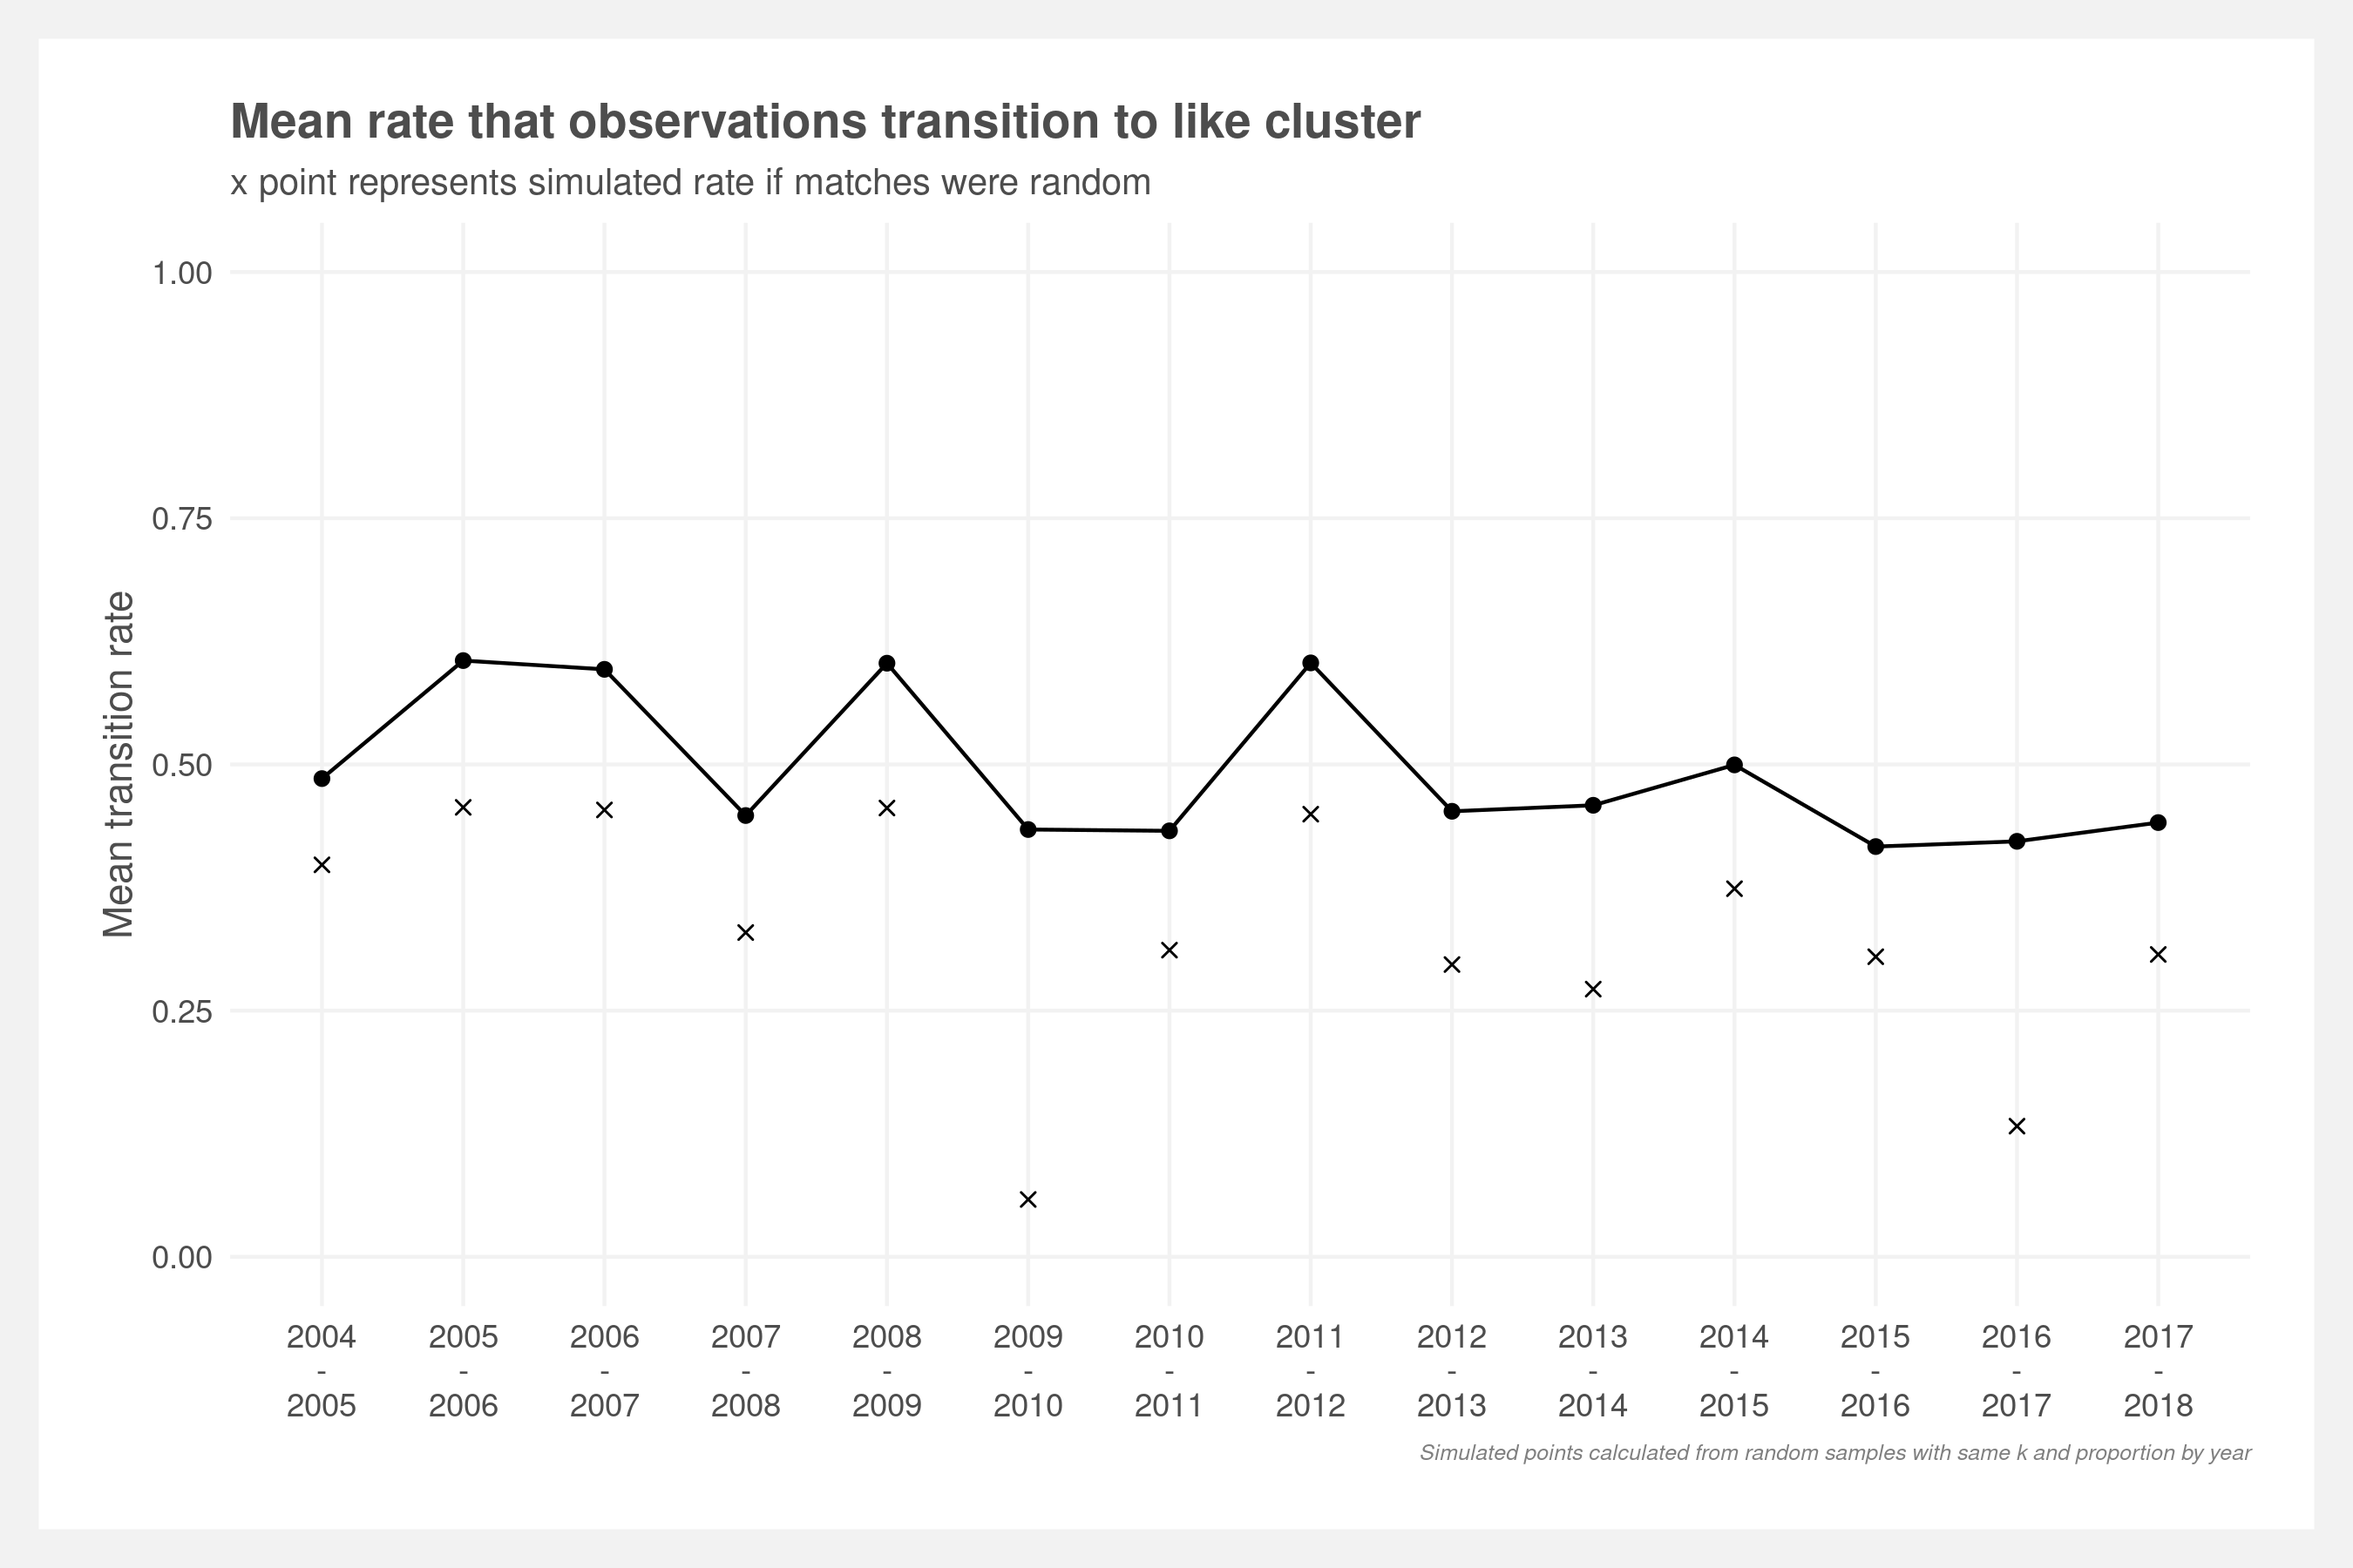
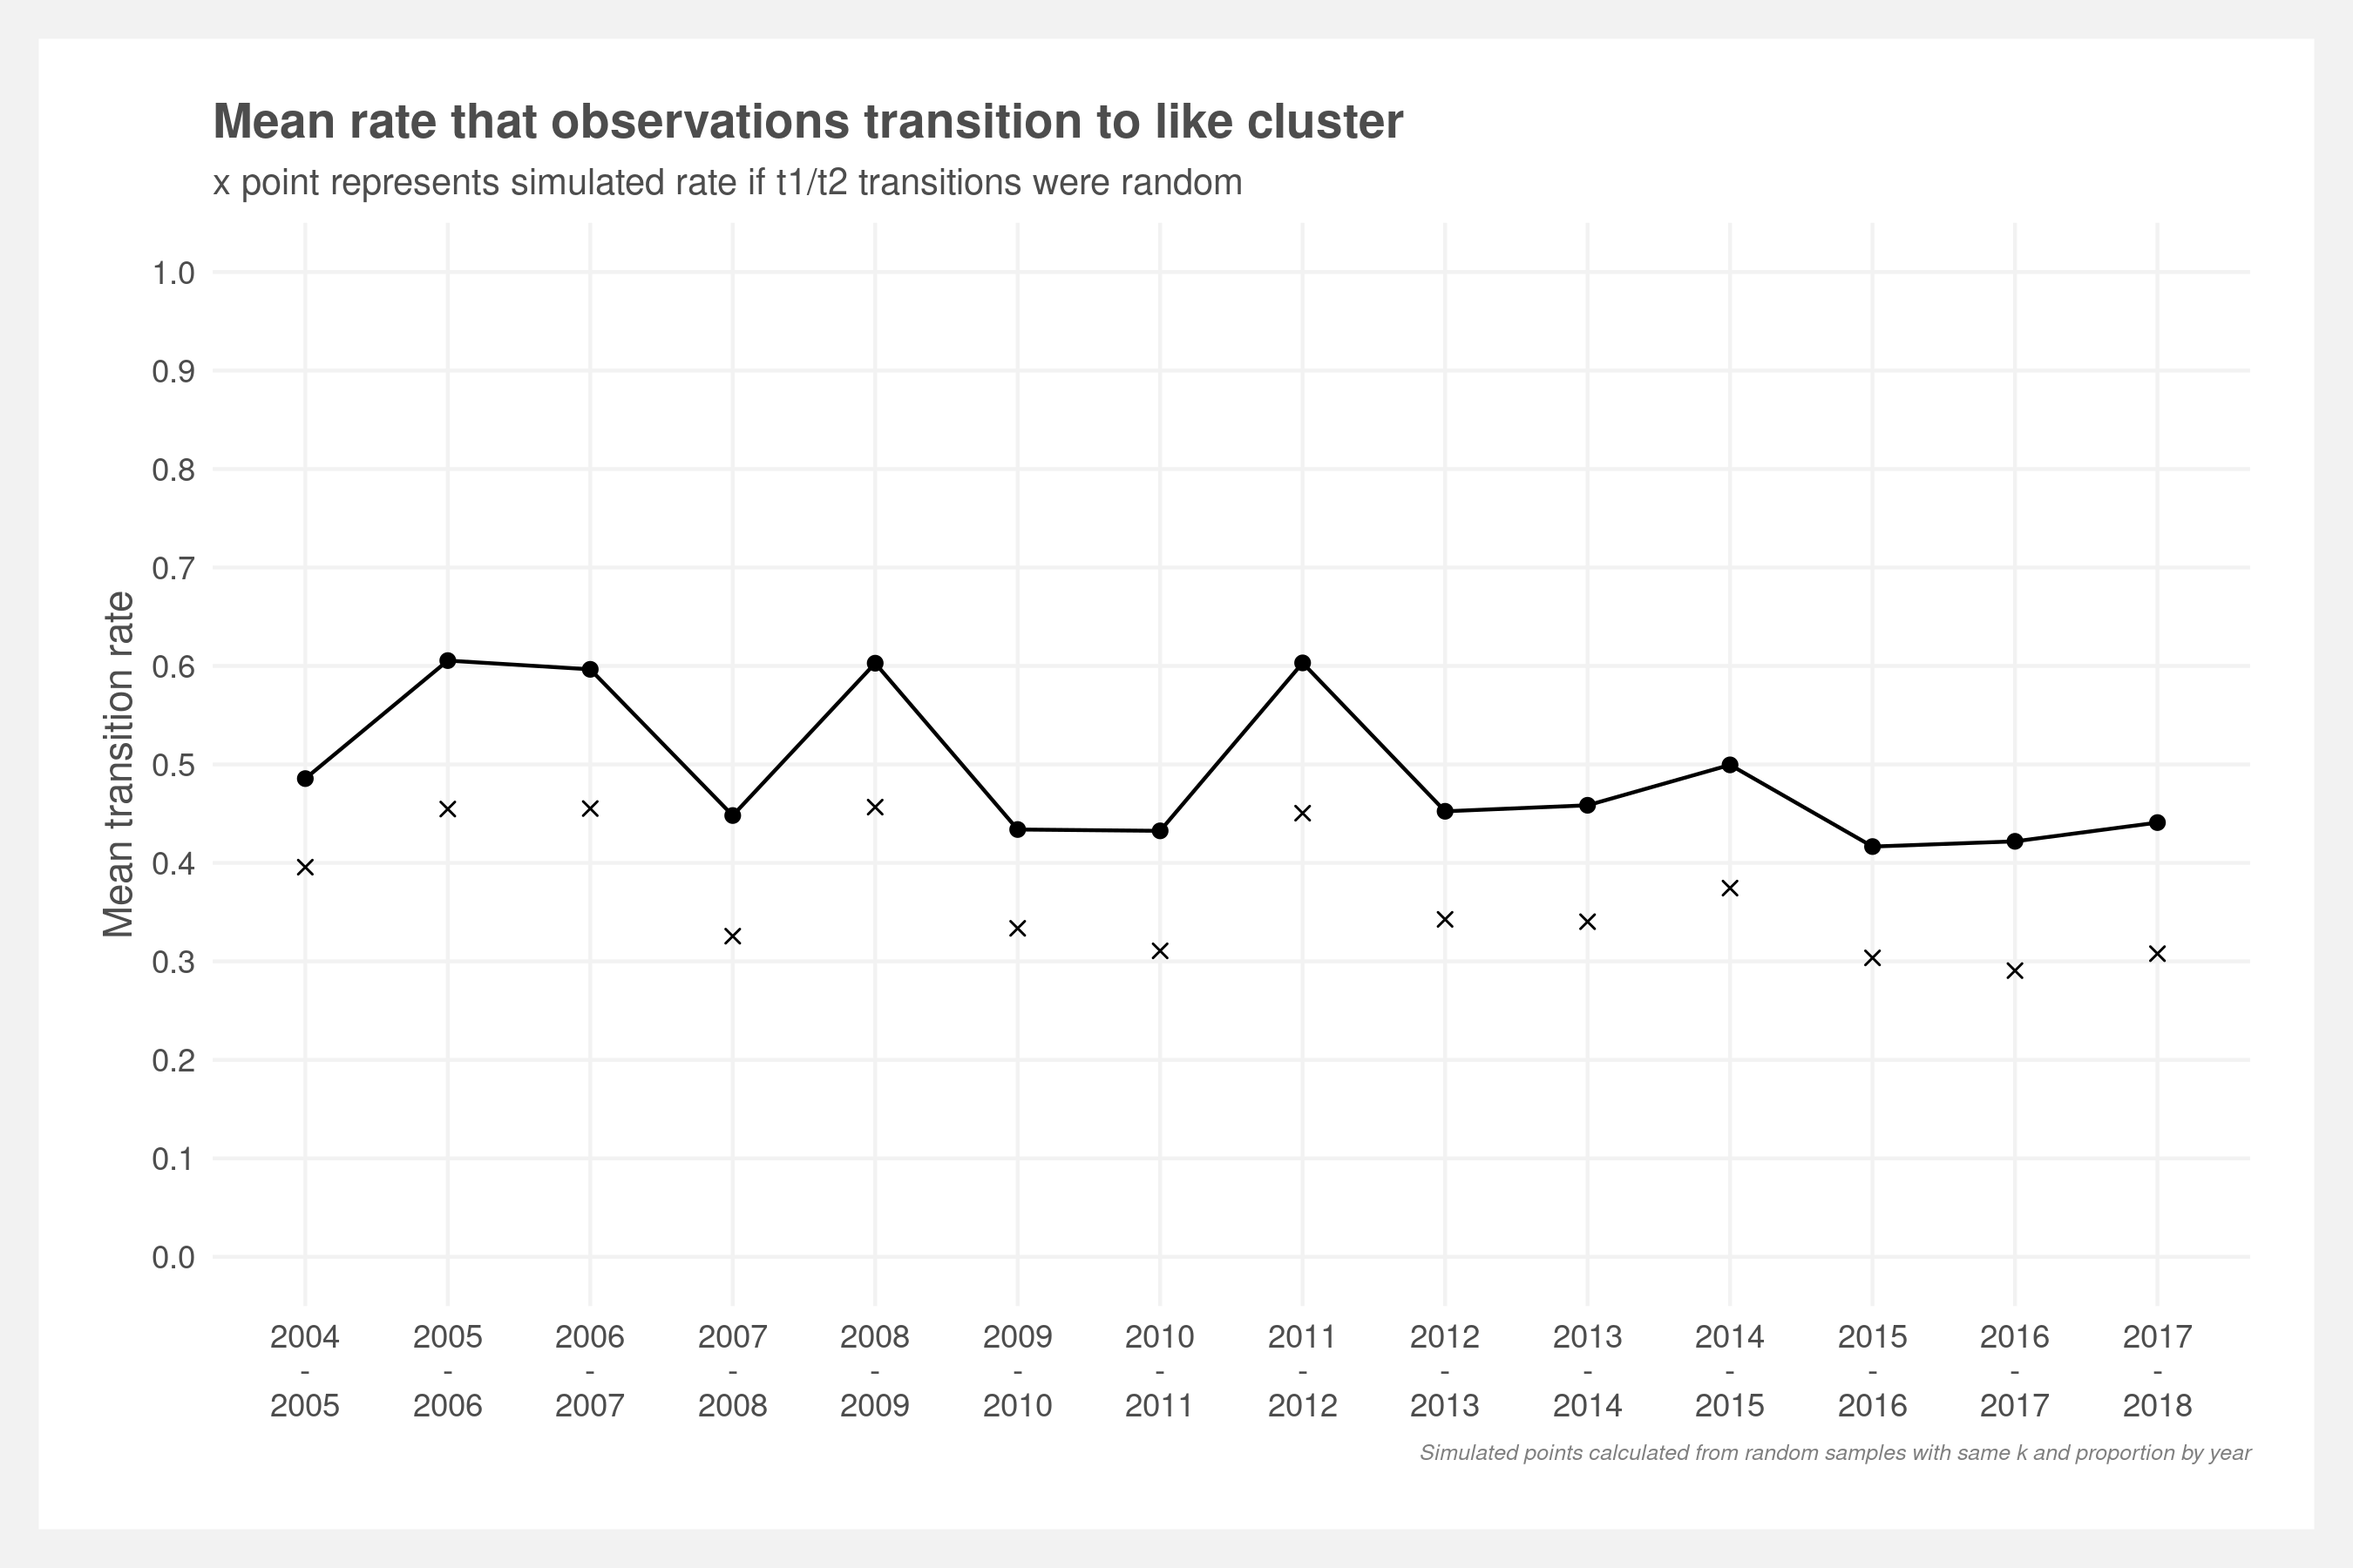
updated transition rate sim

diff --git a/README.md b/README.md
@@ -14,7 +14,7 @@
 
 <br>
 <p align="center">
-<img src="analyses/backtest/plots/mean_transition_rate.png" width=80%>
+<img src="analyses/backtest/plots/mean_transition_rate_simulated.png" width=80%>
 </p>
 
 <br>
